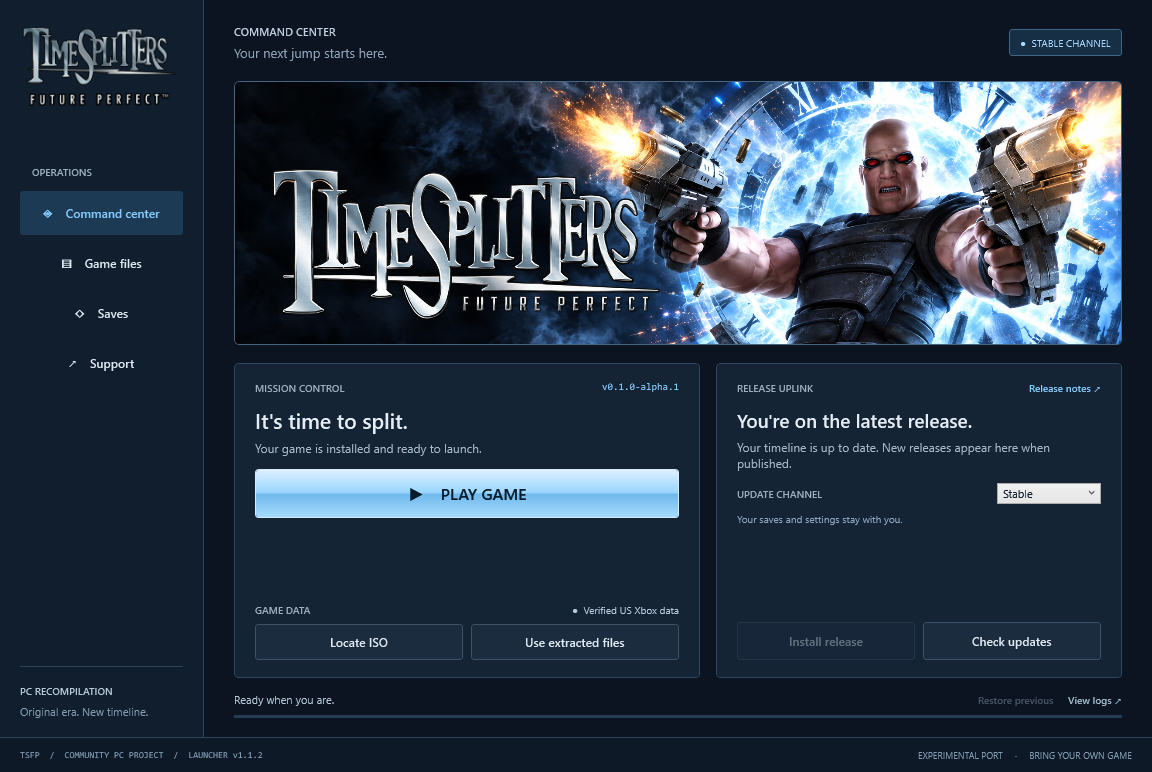
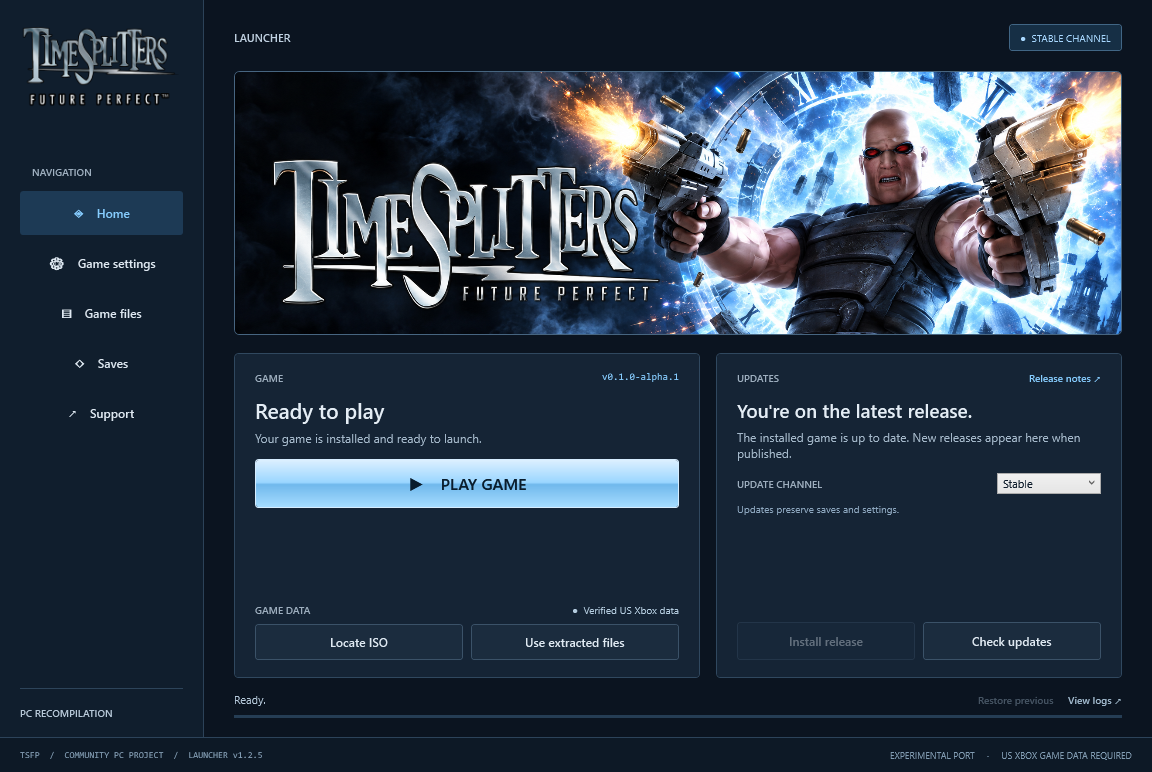
Remove slogans and quips from README and launcher

diff --git a/tools/launcher/Launcher.xaml b/tools/launcher/Launcher.xaml
@@ -61,8 +61,8 @@
           </StackPanel>
         </StackPanel>
         <StackPanel Grid.Row="2">
-          <TextBlock Text="OPERATIONS" Style="{StaticResource Label}" Margin="12,0,0,10"/>
-          <Button x:Name="HomeNav" Style="{StaticResource Nav}" Background="#1D3A55" Foreground="#86CDFF" Content="◈    Command center" ToolTip="Game, release updates and setup"/>
+          <TextBlock Text="NAVIGATION" Style="{StaticResource Label}" Margin="12,0,0,10"/>
+          <Button x:Name="HomeNav" Style="{StaticResource Nav}" Background="#1D3A55" Foreground="#86CDFF" Content="◈    Home" ToolTip="Game, release updates and setup"/>
           <Button x:Name="SettingsNav" Style="{StaticResource Nav}" Content="⚙    Game settings" ToolTip="Keybinds, mouse, graphics and resolution"/>
           <Button x:Name="FilesNav" Style="{StaticResource Nav}" Content="▤    Game files" ToolTip="Open the installation folder"/>
           <Button x:Name="SavesNav" Style="{StaticResource Nav}" Content="◇    Saves" ToolTip="Open your local saves folder"/>
@@ -72,7 +72,6 @@
           <Border BorderBrush="#2D445A" BorderThickness="0,1,0,0" Padding="0,17,0,0">
             <StackPanel>
               <TextBlock Text="PC RECOMPILATION" FontSize="10" FontWeight="SemiBold" Foreground="#B7C8D8"/>
-              <TextBlock Text="Original era. New timeline." FontSize="11" Foreground="#849AAF" Margin="0,7,0,0"/>
             </StackPanel>
           </Border>
         </StackPanel>
@@ -82,7 +81,7 @@
     <Grid x:Name="CommandCenter" Margin="30,24,30,18">
       <Grid.RowDefinitions><RowDefinition Height="Auto"/><RowDefinition Height="20"/><RowDefinition Height="264"/><RowDefinition Height="18"/><RowDefinition Height="*"/><RowDefinition Height="Auto"/></Grid.RowDefinitions>
       <DockPanel LastChildFill="False">
-        <StackPanel DockPanel.Dock="Left"><TextBlock Text="COMMAND CENTER" FontSize="11" FontWeight="SemiBold" Foreground="#C0D1E1"/><TextBlock Text="Your next jump starts here." FontSize="13" Foreground="#8CA2B7" Margin="0,5,0,0"/></StackPanel>
+        <TextBlock DockPanel.Dock="Left" Text="LAUNCHER" FontSize="11" FontWeight="SemiBold" Foreground="#C0D1E1" VerticalAlignment="Center"/>
         <Border DockPanel.Dock="Right" BorderBrush="#416685" BorderThickness="1" Background="#162F45" Padding="10,6" CornerRadius="3" VerticalAlignment="Center">
           <TextBlock x:Name="ChannelBadge" Text="●  STABLE CHANNEL" FontSize="10" Foreground="#A8D8FF"/>
         </Border>
@@ -103,15 +102,12 @@
             </Ellipse>
             <Path Stroke="#86CDFF" StrokeThickness="1.5" Data="M271,22 L271,69 M271,177 L271,224 M170,123 L217,123 M325,123 L372,123 M253,123 L289,123 M271,105 L271,141"/>
             <Path Fill="#132A3D" Stroke="#B5CADB" StrokeThickness="1" Data="M243,124 L255,93 L254,74 L262,61 L276,60 L287,71 L284,94 L300,105 L304,127 L322,146 L315,154 L289,137 L290,178 L302,221 L282,224 L267,185 L260,223 L240,221 L247,174 L246,143 L220,154 L214,145 Z"/>
-            <TextBlock Canvas.Left="22" Canvas.Top="222" Text="TEMPORAL SIGNATURE  //  2005" FontFamily="Consolas" FontSize="9" Foreground="#98B7D0"/>
           </Canvas>
           <StackPanel Margin="28,25,0,20" Width="435" HorizontalAlignment="Left">
-            <TextBlock Text="THE FUTURE IS IN YOUR HANDS" FontSize="10" FontWeight="SemiBold" Foreground="#B7DFFF"/>
             <TextBlock Text="TIMESPLITTERS" FontFamily="Bahnschrift" FontWeight="Bold" FontStyle="Italic" FontSize="43" Margin="-3,10,0,0">
               <TextBlock.Foreground><LinearGradientBrush StartPoint="0,0" EndPoint="0,1"><GradientStop Color="#F0F8FF"/><GradientStop Color="#C5D4E1" Offset="0.48"/><GradientStop Color="#7F97AE" Offset="0.52"/><GradientStop Color="#E1EBF4" Offset="1"/></LinearGradientBrush></TextBlock.Foreground>
             </TextBlock>
             <TextBlock Text="F U T U R E   P E R F E C T" FontFamily="Bahnschrift" FontWeight="Bold" FontSize="20" Foreground="#86CDFF" Margin="0,-1,0,0"/>
-            <TextBlock Text="Back through time. Ready for PC." FontSize="13" Foreground="#B0C2D2" Margin="0,17,0,0"/>
             <StackPanel Orientation="Horizontal" Margin="0,19,0,0">
               <Border BorderBrush="#46637D" BorderThickness="1" Padding="8,4" CornerRadius="2"><TextBlock Text="WINDOWS x64" FontSize="9" Foreground="#CAD9E6"/></Border>
               <Border BorderBrush="#46637D" BorderThickness="1" Padding="8,4" CornerRadius="2" Margin="7,0,0,0"><TextBlock Text="NATIVE PC PORT" FontSize="9" Foreground="#CAD9E6"/></Border>
@@ -127,8 +123,8 @@
         <Border Background="#152435" BorderBrush="#30485F" BorderThickness="1" CornerRadius="4" Padding="20,17">
           <Grid>
             <Grid.RowDefinitions><RowDefinition Height="Auto"/><RowDefinition Height="Auto"/><RowDefinition Height="Auto"/><RowDefinition Height="Auto"/><RowDefinition Height="*"/><RowDefinition Height="Auto"/></Grid.RowDefinitions>
-            <DockPanel><TextBlock Text="MISSION CONTROL" Style="{StaticResource Label}"/><TextBlock x:Name="InstalledLabel" Text="NOT INSTALLED" Foreground="#86CDFF" FontFamily="Consolas" FontSize="10" HorizontalAlignment="Right"/></DockPanel>
-            <TextBlock x:Name="ReadyTitle" Grid.Row="1" Text="Prepare your next jump" FontSize="21" FontWeight="SemiBold" Margin="0,12,0,0"/>
+            <DockPanel><TextBlock Text="GAME" Style="{StaticResource Label}"/><TextBlock x:Name="InstalledLabel" Text="NOT INSTALLED" Foreground="#86CDFF" FontFamily="Consolas" FontSize="10" HorizontalAlignment="Right"/></DockPanel>
+            <TextBlock x:Name="ReadyTitle" Grid.Row="1" Text="Install game" FontSize="21" FontWeight="SemiBold" Margin="0,12,0,0"/>
             <TextBlock x:Name="ReadyDescription" Grid.Row="2" Text="Install a release, then import your US Xbox ISO." Foreground="#A4B8CA" FontSize="12" Margin="0,6,0,13"/>
             <Button x:Name="PlayButton" Grid.Row="3" Background="{StaticResource PlayChrome}" Foreground="#091C2C" BorderBrush="#D6EDFF" FontSize="16" Padding="20,13" Content="▶    PLAY GAME" ToolTip="Launch your installed game" IsEnabled="False"/>
             <StackPanel Grid.Row="5" Margin="0,13,0,0">
@@ -143,14 +139,14 @@
         <Border Grid.Column="2" Background="#152435" BorderBrush="#30485F" BorderThickness="1" CornerRadius="4" Padding="20,17">
           <Grid>
             <Grid.RowDefinitions><RowDefinition Height="Auto"/><RowDefinition Height="Auto"/><RowDefinition Height="Auto"/><RowDefinition Height="*"/><RowDefinition Height="Auto"/></Grid.RowDefinitions>
-            <DockPanel><TextBlock Text="RELEASE UPLINK" Style="{StaticResource Label}"/><Button x:Name="ReleaseNotesButton" Content="Release notes ↗" Padding="0" Background="Transparent" BorderThickness="0" Foreground="#86CDFF" FontSize="10" HorizontalAlignment="Right"/></DockPanel>
-            <TextBlock x:Name="ReleaseTitle" Grid.Row="1" Text="Checking the timeline…" FontSize="19" FontWeight="SemiBold" Margin="0,13,0,0"/>
-            <TextBlock x:Name="ReleaseDescription" Grid.Row="2" Text="Published releases, delivered straight from GitHub." FontSize="12" Foreground="#A4B8CA" Margin="0,7,0,12"/>
+            <DockPanel><TextBlock Text="UPDATES" Style="{StaticResource Label}"/><Button x:Name="ReleaseNotesButton" Content="Release notes ↗" Padding="0" Background="Transparent" BorderThickness="0" Foreground="#86CDFF" FontSize="10" HorizontalAlignment="Right"/></DockPanel>
+            <TextBlock x:Name="ReleaseTitle" Grid.Row="1" Text="Checking for updates…" FontSize="19" FontWeight="SemiBold" Margin="0,13,0,0"/>
+            <TextBlock x:Name="ReleaseDescription" Grid.Row="2" Text="Game releases from GitHub." FontSize="12" Foreground="#A4B8CA" Margin="0,7,0,12"/>
             <StackPanel Grid.Row="3">
               <DockPanel Margin="0,0,0,8"><TextBlock Text="UPDATE CHANNEL" Style="{StaticResource Label}" VerticalAlignment="Center"/>
                 <ComboBox x:Name="ChannelPicker" SelectedIndex="0" Width="104" HorizontalAlignment="Right" FontSize="11" Foreground="#101E2D" ToolTip="Stable excludes prereleases. Preview includes published test releases."><ComboBoxItem Content="Stable"/><ComboBoxItem Content="Preview"/></ComboBox>
               </DockPanel>
-              <TextBlock Text="Your saves and settings stay with you." Foreground="#8CA6BE" FontSize="10"/>
+              <TextBlock Text="Updates preserve saves and settings." Foreground="#8CA6BE" FontSize="10"/>
             </StackPanel>
             <Grid Grid.Row="4" Margin="0,12,0,0"><Grid.ColumnDefinitions><ColumnDefinition/><ColumnDefinition Width="8"/><ColumnDefinition/></Grid.ColumnDefinitions>
               <Button x:Name="UpdateButton" Content="Install release" IsEnabled="False" Padding="8,10"/>
@@ -162,7 +158,7 @@
       <Grid Grid.Row="5" Margin="0,14,0,0">
         <Grid.RowDefinitions><RowDefinition Height="Auto"/><RowDefinition Height="5"/></Grid.RowDefinitions>
         <Grid Margin="0,0,0,7"><Grid.ColumnDefinitions><ColumnDefinition Width="*"/><ColumnDefinition Width="Auto"/></Grid.ColumnDefinitions>
-          <TextBlock x:Name="StatusText" Text="Establishing release uplink…" FontSize="11" Foreground="#B4C7D8" VerticalAlignment="Center"/>
+          <TextBlock x:Name="StatusText" Text="Checking for updates…" FontSize="11" Foreground="#B4C7D8" VerticalAlignment="Center"/>
           <StackPanel Grid.Column="1" Orientation="Horizontal" Margin="12,0,0,0">
             <Button x:Name="RollbackButton" Content="Restore previous" FontSize="10" Foreground="#A5BDD1" Padding="0" BorderThickness="0" Background="Transparent" IsEnabled="False"
                     ToolTip="Kept until this game version opens and exits normally. Older game files are then cleaned automatically." ToolTipService.ShowOnDisabled="True"/>
@@ -175,7 +171,7 @@
     <ContentControl x:Name="SettingsHost" Visibility="Collapsed" HorizontalContentAlignment="Stretch" VerticalContentAlignment="Stretch"/>
     </Grid>
     <Border Grid.Row="1" Grid.ColumnSpan="2" BorderBrush="#2C435A" BorderThickness="0,1,0,0" Background="#0D1926" Padding="20,0">
-      <DockPanel><TextBlock x:Name="LauncherVersionLabel" Text="TSFP  /  COMMUNITY PC PROJECT" FontFamily="Consolas" FontSize="9" Foreground="#809BB2" VerticalAlignment="Center"/><TextBlock Text="EXPERIMENTAL PORT     ·     BRING YOUR OWN GAME" FontSize="9" Foreground="#809BB2" HorizontalAlignment="Right" VerticalAlignment="Center"/></DockPanel>
+      <DockPanel><TextBlock x:Name="LauncherVersionLabel" Text="TSFP  /  COMMUNITY PC PROJECT" FontFamily="Consolas" FontSize="9" Foreground="#809BB2" VerticalAlignment="Center"/><TextBlock Text="EXPERIMENTAL PORT     ·     US XBOX GAME DATA REQUIRED" FontSize="9" Foreground="#809BB2" HorizontalAlignment="Right" VerticalAlignment="Center"/></DockPanel>
     </Border>
   </Grid>
 </Window>

diff --git a/tools/launcher/Launcher.cs b/tools/launcher/Launcher.cs
@@ -176,12 +176,12 @@ namespace TimeSplitters.Launcher
             if (previewMode)
             {
                 Text("InstalledLabel", "v0.1.0-alpha.1");
-                Text("ReadyTitle", "It's time to split.");
+                Text("ReadyTitle", "Ready to play");
                 Text("ReadyDescription", "Your game is installed and ready to launch.");
                 Text("DataLabel", "●  Verified US Xbox data");
                 Text("ReleaseTitle", "You're on the latest release.");
-                Text("ReleaseDescription", "Your timeline is up to date. New releases appear here when published.");
-                SetStatus("Ready when you are.");
+                Text("ReleaseDescription", "The installed game is up to date. New releases appear here when published.");
+                SetStatus("Ready.");
                 Button("PlayButton").IsEnabled = true;
                 return;
             }
@@ -234,7 +234,7 @@ namespace TimeSplitters.Launcher
             try {
                 if(settings==null) {
                     settings=new SettingsPage(Window.Resources,root,previewMode);
-                    settings.Saved+=()=> { SetStatus("Settings saved. Ready for your next launch."); Refresh(); };
+                    settings.Saved+=()=> { SetStatus("Settings saved."); Refresh(); };
                     settings.Cancelled+=()=> { ShowHome(); Find<ContentControl>("SettingsHost").Content=null; settings=null; SetStatus("Unsaved settings discarded."); };
                     Find<ContentControl>("SettingsHost").Content=settings.View;
                 }
@@ -283,7 +283,7 @@ namespace TimeSplitters.Launcher
             string xbe = Core.PathIn(root, "Data/default.xbe");
             validData = File.Exists(xbe) && Directory.Exists(Core.PathIn(root, "Data/pak")) && Directory.Exists(Core.PathIn(root, "Data/xmv")) && Core.Hash(xbe) == TsfpImport.ExpectedHash;
             Text("InstalledLabel", installed.Length > 0 ? installed : gameInstalled ? "UNVERSIONED" : "NOT INSTALLED");
-            Text("ReadyTitle", gameInstalled && validData ? "It's time to split." : gameInstalled ? "One last jump: your ISO." : "Prepare your next jump");
+            Text("ReadyTitle", gameInstalled && validData ? "Ready to play" : gameInstalled ? "Import game data" : "Install game");
             Text("ReadyDescription", gameInstalled && validData ? "Your game is installed and ready to launch." : gameInstalled ? "Import your US Xbox game once to start playing." : "Install a release, then import your US Xbox ISO.");
             bool dataExists = Directory.Exists(Core.PathIn(root, "Data"));
             if (dataExists && !validData)
@@ -314,7 +314,7 @@ namespace TimeSplitters.Launcher
             if (busy || checking) return;
             checking = true; available = null;
             Refresh();
-            Text("ReleaseTitle", "Checking the timeline…");
+            Text("ReleaseTitle", "Checking for updates…");
             Text("ReleaseDescription", "Looking for published " + (PreviewChannel ? "preview or stable" : "stable") + " releases on GitHub.");
             SetStatus("Checking GitHub Releases…");
             using (var timeout = CancellationTokenSource.CreateLinkedTokenSource(lifetime.Token))
@@ -333,12 +333,12 @@ namespace TimeSplitters.Launcher
                     {
                         bool newer = CanUpdate();
                         Text("ReleaseTitle", newer ? available.Tag + " is ready." : "You're on the latest release.");
-                        Text("ReleaseDescription", newer ? "Published on GitHub · " + (available.Size / 1048576.0).ToString("0.0") + " MB\n" + (gameInstalled ? "Ready to update when you are." : "Install the game files, then bring your ISO.") : "Your timeline is up to date. Check release notes for details.");
-                        SetStatus(newer ? "Release available. Select " + (gameInstalled ? "Update" : "Install") + " to download and verify." : "Ready when you are.");
+                        Text("ReleaseDescription", newer ? "Published on GitHub · " + (available.Size / 1048576.0).ToString("0.0") + " MB\n" + (gameInstalled ? "Update available." : "Install the game runtime, then import your game data.") : "The installed game is up to date. Check release notes for details.");
+                        SetStatus(newer ? "Release available. Select " + (gameInstalled ? "Update" : "Install") + " to download and verify." : "Ready.");
                     }
                 }
                 catch (OperationCanceledException) { if (!lifetime.IsCancellationRequested) { Text("ReleaseTitle", "Release check timed out."); Text("ReleaseDescription", "Your installed game is available offline. Check again when connected."); SetStatus("GitHub did not respond in time. You can retry the release check."); } }
-                catch (Exception ex) { Text("ReleaseTitle", "Release uplink unavailable."); Text("ReleaseDescription", "Your installed game is available offline. Try checking again later."); Fail(ex); }
+                catch (Exception ex) { Text("ReleaseTitle", "Update check failed."); Text("ReleaseDescription", "Your installed game is available offline. Try checking again later."); Fail(ex); }
             }
             checking = false; Refresh();
         }
@@ -448,7 +448,7 @@ namespace TimeSplitters.Launcher
                     {
                         Window.WindowState = WindowState.Minimized;
                         minimizedForGame = true;
-                        SetStatus("Game running. Have a good jump.");
+                        SetStatus("Game running.");
                     }
                     await Task.Delay(200);
                 }
@@ -486,7 +486,7 @@ namespace TimeSplitters.Launcher
                             var stderr = process.StandardError.BaseStream.CopyToAsync(errors);
                             await MonitorGame(process); await Task.WhenAll(stdout, stderr);
                         }
-                        SetStatus(process.ExitCode == 0 ? "Welcome back. Ready for another jump?" : "Game launch failed. View logs for details.");
+                        SetStatus(process.ExitCode == 0 ? "Game closed." : "Game launch failed. View logs for details.");
                         return;
                     }
                     process.StartInfo = new ProcessStartInfo(shell, "-NoProfile -STA -ExecutionPolicy Bypass -File " + Quote(Core.PathIn(root, "Launch.ps1"))) {
@@ -500,7 +500,7 @@ namespace TimeSplitters.Launcher
                     process.ErrorDataReceived += (s, e) => { if (e.Data != null) Program.Log(root, e.Data); };
                     process.Start(); process.BeginOutputReadLine(); process.BeginErrorReadLine();
                     await MonitorGame(process);
-                    SetStatus(process.ExitCode == 0 ? "Welcome back. Ready for another jump?" : "Game launch failed. View logs for details.");
+                    SetStatus(process.ExitCode == 0 ? "Game closed." : "Game launch failed. View logs for details.");
                 }
             }
             catch (Exception ex) { Fail(ex); }

diff --git a/tools/launcher/SettingsPage.cs b/tools/launcher/SettingsPage.cs
@@ -132,7 +132,7 @@ namespace TimeSplitters.Launcher
             heading.Children.Add(Text("Game settings",25));
             var subtitle=Text("Set controls and graphics before starting the game. Changes apply on your next launch.",12); subtitle.Foreground=Muted; heading.Children.Add(subtitle);
             var footer=new StackPanel(); DockPanel.SetDock(footer,Dock.Bottom); layout.Children.Add(footer);
-            status=Text("Save to apply on your next launch. Command center keeps your draft; Cancel discards unsaved edits.",12); status.Foreground=Muted; footer.Children.Add(status);
+            status=Text("Save to apply on your next launch. Home keeps your draft; Cancel discards unsaved edits.",12); status.Foreground=Muted; footer.Children.Add(status);
             var actions=new StackPanel { Orientation=Orientation.Horizontal, HorizontalAlignment=HorizontalAlignment.Right };
             var cancel=Button("Cancel"); cancel.Name="SettingsCancelButton"; cancel.Click+=(s,e)=> { if(Cancelled!=null)Cancelled(); }; actions.Children.Add(cancel);
             var save=Button("Save settings"); save.Name="SettingsSaveButton"; save.Background=Accent; save.Foreground=new SolidColorBrush(Color.FromRgb(9,28,44)); save.Click+=(s,e)=>Save(); actions.Children.Add(save); footer.Children.Add(actions);

diff --git a/tools/launcher/Bootstrap.cs b/tools/launcher/Bootstrap.cs
@@ -142,7 +142,7 @@ namespace TimeSplitters.Launcher
                   <Grid.RowDefinitions><RowDefinition Height='Auto'/><RowDefinition Height='Auto'/><RowDefinition Height='Auto'/><RowDefinition Height='Auto'/><RowDefinition Height='*'/></Grid.RowDefinitions>
                   <TextBlock Text='TIMESPLITTERS  /  FUTURE PERFECT' FontFamily='Bahnschrift' FontWeight='Bold' FontSize='14' Foreground='#86CDFF'/>
                   <TextBlock Grid.Row='1' Text='Checking launcher updates…' FontSize='21' FontWeight='SemiBold' Margin='0,18,0,0'/>
-                  <TextBlock x:Name='Status' Grid.Row='2' Text='Getting everything ready.' FontSize='12' Foreground='#A4B8CA' TextWrapping='Wrap' Margin='0,7,0,15'/>
+                  <TextBlock x:Name='Status' Grid.Row='2' Text='Checking GitHub Releases.' FontSize='12' Foreground='#A4B8CA' TextWrapping='Wrap' Margin='0,7,0,15'/>
                   <ProgressBar x:Name='Progress' Grid.Row='3' Height='3' IsIndeterminate='True' Background='#30485F' Foreground='#86CDFF' BorderThickness='0'/>
                   <DockPanel Grid.Row='4' Margin='0,15,0,0' LastChildFill='False'>
                     <TextBlock x:Name='Version' DockPanel.Dock='Left' Foreground='#8CA6BE' FontSize='10' VerticalAlignment='Center'/>

diff --git a/README.md b/README.md
@@ -2,21 +2,19 @@
 
 # TimeSplitters: Future Perfect
 
-### The Xbox classic. A new home on PC.
-
 Direct mouse aiming · 4K & ultrawide · Custom controls · Online & LAN
 
 <a href="https://github.com/TheDoffman/timesplitters-future-perfect-pc/releases/latest"><img src="docs/assets/download-launcher.svg" alt="Download the latest Windows launcher" width="280" height="52"></a>
 
 **[Quick start](#start-playing)** · [Launcher guide](docs/launcher.md) · [Multiplayer](docs/multiplayer.md) · [Build from source](docs/building.md)
 
-<sub>Windows 10/11 x64 · Experimental PC port · Bring your own US Xbox game</sub>
+<sub>Windows 10/11 x64 · Experimental PC port · Supported US Xbox game required</sub>
 
 </div>
 
 ![TimeSplitters launcher with Play Game, game import, update channel and release controls](docs/assets/launcher-preview.png)
 
-<p align="center"><sub>Published launcher v1.1.2 interface preview. Version and channel shown are sample state; choose <strong>Preview</strong> to install current game prereleases.</sub></p>
+<p align="center"><sub>Launcher interface preview from the current source. Version and channel shown are sample state; choose <strong>Preview</strong> to install current game prereleases.</sub></p>
 
 > [!IMPORTANT]
 > You need your own supported **US Xbox ISO or extracted game data**. Import it
@@ -25,7 +23,7 @@ Direct mouse aiming · 4K & ultrawide · Custom controls · Online & LAN
 
 ## Start playing
 
-| | Get ready for your next jump |
+| Step | Installation |
 | :---: | --- |
 | **01** | **Download the launcher.** Open the [latest launcher release](https://github.com/TheDoffman/timesplitters-future-perfect-pc/releases/latest) and download its `TimeSplitters-Launcher-…-windows-x64.zip` asset. |
 | **02** | **Extract and open.** Extract the whole ZIP to a writable folder, keeping `Bin` and `Support` together. Open **TimeSplitters Launcher.exe**. |
@@ -53,20 +51,20 @@ Python, Git and Visual Studio are not required to play.
 
 </details>
 
-## Built for PC play
+## PC features
 
 <table>
 <tr>
-<td width="50%" valign="top"><strong>Precise mouse aiming</strong><br>Direct camera control, zoom-aware sensitivity and normalized WASD movement. Rebind actions and adjust sensitivity with <strong>F2</strong>.</td>
-<td width="50%" valign="top"><strong>A bigger view</strong><br>Native <strong>1080p, 1440p and 4K</strong> rendering, monitor-reported ultrawide modes and adaptive in-engine cutscene framing.</td>
+<td width="50%" valign="top"><strong>Mouse aiming</strong><br>Direct camera control, zoom-aware sensitivity and normalized WASD movement. Rebind actions and adjust sensitivity with <strong>F2</strong>.</td>
+<td width="50%" valign="top"><strong>Resolution and aspect ratio</strong><br>Native <strong>1080p, 1440p and 4K</strong> rendering, monitor-reported ultrawide modes and adaptive in-engine cutscene framing.</td>
 </tr>
 <tr>
-<td valign="top"><strong>Your controls, on screen</strong><br>Formatted menu and HUD prompts follow your bindings and switch back to controller icons when you use a controller.</td>
-<td valign="top"><strong>Jump in with friends</strong><br>Experimental player-hosted Online matches, invitations, private join codes and compatible-build browsing, plus LAN System Link.</td>
+<td valign="top"><strong>Input prompts</strong><br>Formatted menu and HUD prompts follow your bindings and switch back to controller icons when you use a controller.</td>
+<td valign="top"><strong>Online and LAN multiplayer</strong><br>Experimental player-hosted Online matches, invitations, private join codes and compatible-build browsing, plus LAN System Link.</td>
 </tr>
 <tr>
-<td valign="top"><strong>One place to launch and update</strong><br>Install releases, import game data, check updates and press <strong>Play Game</strong>. Roll back an update when a previous release is available.</td>
-<td valign="top"><strong>See how it runs</strong><br>Optional FPS, frame-time and network-latency displays. Use <strong>F9</strong> for the FPS overlay and <strong>F12</strong> for debug settings.</td>
+<td valign="top"><strong>Launcher</strong><br>Install releases, import game data, check updates and press <strong>Play Game</strong>. Roll back an update when a previous release is available.</td>
+<td valign="top"><strong>Performance diagnostics</strong><br>Optional FPS, frame-time and network-latency displays. Use <strong>F9</strong> for the FPS overlay and <strong>F12</strong> for debug settings.</td>
 </tr>
 </table>
 
@@ -74,7 +72,7 @@ Recent fixes improve pickup-range checks, controller sensitivity adjustment,
 story audio transitions, Khallos Express scenery rendering and multiplayer
 movement updates. [See measured progress →](STATUS.md)
 
-### Make it yours
+### Controls and settings
 
 **Game settings** in launcher v1.2.0 lets you set keybinds and graphics before
 playing. Resolution selectors use your primary display's reported modes, include
@@ -82,7 +80,7 @@ the console default, and provide left/right arrows. Saved custom modes are retai
 
 | Controls | Display | Launcher |
 | --- | --- | --- |
-| **F2** opens keyboard/mouse settings. Save bindings, sensitivity and inversion. Pause before editing. | **Settings → Display settings** (or paused **Options**) selects aspect-ratio groups, resolution and vertical FOV (40–100°, default 55°). Confirm resolution changes within **15 seconds** or it reverts. | **Check updates → Update release** installs game updates. **Saves**, **Game files**, **View logs** and **Support** keep essentials close. |
+| **F2** opens keyboard/mouse settings. Save bindings, sensitivity and inversion. Pause before editing. | **Settings → Display settings** (or paused **Options**) selects aspect-ratio groups, resolution and vertical FOV (40–100°, default 55°). Confirm resolution changes within **15 seconds** or it reverts. | **Check updates → Update release** installs game updates. **Saves**, **Game files**, **View logs** and **Support** open the related folders, logs and issue tracker. |
 
 Click the game to capture the mouse; **Escape** pauses and releases it. Use
 **Alt+Enter** for fullscreen. Settings saved in-game remain in place for your
@@ -114,7 +112,7 @@ original appearance. [Full controls and display guide →](docs/windows-settings
 
 </details>
 
-## Play with friends
+## Multiplayer
 
 **Online / System Link → Online** opens the experimental competitive mode.
 Host a match, share an invitation, or browse compatible public lobbies. No Steam
@@ -146,7 +144,7 @@ account, paid service or centrally operated server is required. Choose
 
 ## Guides & support
 
-| Play & customize | Build & contribute |
+| Player guides | Developer guides |
 | --- | --- |
 | [Windows launcher](docs/launcher.md) — installation, updates and recovery | [Build guide](docs/building.md) — prerequisites, setup and patch workflow |
 | [Controls & display](docs/windows-settings.md) — bindings, resolution and diagnostics | [Release publishing](docs/releasing.md) — package, validate and publish |

diff --git a/docs/assets/README.md b/docs/assets/README.md
@@ -1,16 +1,18 @@
 # README visuals
 
-- `launcher-preview.png`: UI preview rendered by the published Windows launcher
-  v1.1.2 using its `--render-preview` command. It shows illustrative installed
-  version/channel values, not the current latest game release or a gameplay test.
-  The README caption makes that distinction and directs players to Preview.
+- `launcher-preview.png`: UI preview rendered from `cleanup/readme-launcher-copy`
+  using the launcher's `--render-preview` command after removing slogans and
+  themed status quips. This is a source/development preview, not a published
+  launcher screenshot. Its installed version/channel values are illustrative;
+  the README caption directs players to Preview for published game prereleases.
 - Rendered application SHA-256:
[1 lines of base64/hex data omitted]
-  This matches the v1.1.2 launcher package manifest. Rendering opens no game,
-  performs no update and includes no personal settings, paths or saves.
-- `download-launcher.svg`: small self-contained download button matching the
[1 lines of base64/hex data omitted]
+  The launcher was built on Windows x64 with the existing private banner/logo
+  resources. Rendering opens no game, performs no update, and includes no
+  personal settings, paths or saves. Screenshot resolution: 1152 x 772.
+- `download-launcher.svg`: self-contained download button matching the
   launcher's silver/blue palette. Its link and accessible label are in the README.
 
-The PNG documents the released interface, including its embedded branding.
-Raw source artwork and original game assets remain private. Keep one launcher
-preview here and replace it when the documented interface changes.
+The PNG documents the interface, including its embedded branding. Raw source
+artwork and original game assets remain private. Keep one launcher preview here
+and replace it when the documented interface changes.

diff --git a/STATUS.md b/STATUS.md
@@ -1,5 +1,27 @@
 # Measured progress
 
+## README and launcher copy cleanup (2026-10-16)
+
+Copy-only work on `cleanup/readme-launcher-copy`, based on main `2608580`.
+Removed slogans, game-themed quips and promotional headings from the README,
+launcher home screen, default banner, startup splash and runtime status messages.
+Visible navigation now uses Home, Game and Updates; stable element IDs and event
+handlers remain unchanged. The settings draft hint and launcher guide use Home.
+The README screenshot was replaced with the actual updated development UI, with
+its source-preview status and executable hash recorded in docs/assets/README.md.
+Game branding, artwork, functional instructions and prerequisite notices remain.
+
+Windows x64 / .NET Framework 4.8 / Python 3.12.14: both themed launcher EXEs
+compiled. Main, keyboard/mouse settings, graphics settings and startup-splash
+preview commands succeeded. A separate build without private banner/logo assets
+compiled and its fallback preview rendered successfully. Main and fallback
+previews were visually inspected. A source scan found no remaining removed
+phrases; the README reference to the game having no jump action is functional
+controls documentation and remains. No new tests were added for these text-only
+edits; no game build, game execution, update or personal settings changes were
+performed. Native Mac UI wording is unverified. Publication is not part of this
+change.
+
 ## Resolution groups and adaptive UI (issues #27/#31) — 2026-10-16
 
 Implemented on `27-add-aspect-ratio-169-and-more-resolutions`, originally based on main

diff --git a/MAC_PORT_BACKLOG.md b/MAC_PORT_BACKLOG.md
@@ -534,6 +534,15 @@ Copy this template into the queue for each new entry. Replace all placeholders.
 ### MAC-021 — Published-release launcher and pre-game settings
 
 - **Status:** Queued
+- **Neutral interface copy (2026-10-16, uncommitted on
+  `cleanup/readme-launcher-copy`):** README and Windows launcher slogans/quips
+  are removed. `Launcher.xaml`, `Launcher.cs`, `Bootstrap.cs` and `SettingsPage.cs`
+  use functional labels/status messages, including Home/Game/Updates. The README
+  screenshot and launcher usage guide match the labels. No shared game logic or
+  native Mac adapter changed, so no Mac runtime adaptation is needed for this
+  copy-only edit. The future Mac release launcher should use the same neutral
+  wording; existing native Mac UI copy is not audited or verified here. Evidence:
+  [Windows copy validation](STATUS.md#readme-and-launcher-copy-cleanup-2026-10-16).
 - **Game version cleanup (2026-10-16, commit `d1f4e42` on
   `fix/game-update-cleanup`, [PR #69](https://github.com/TheDoffman/timesplitters-future-perfect-pc/pull/69),
   prepared for launcher v1.2.5):** `tools/launcher/Core.cs` removes retired game

diff --git a/docs/windows-launcher.md b/docs/windows-launcher.md
@@ -186,11 +186,11 @@ Restore default controls affects Player 1 only and does not write until Save.
 
 Launcher v1.2.2 opens both tabs inside the main launcher, with the sidebar
 visible and usable. Binding capture, conflict reassignment and restore-defaults
-confirmations also appear inside that page. **Command center** retains your draft
+confirmations also appear inside that page. **Home** retains your draft
 and dismisses any active binding prompt; reopening **Game settings** restores the
 same tab and edits. **Save settings** keeps the page open and reports validation
 or save results in its footer. **Cancel** discards unsaved edits and returns to
-Command center; closing the launcher also discards unsaved edits. Existing
+Home; closing the launcher also discards unsaved edits. Existing
 backup, rollback and external-edit protection are unchanged.
 
 Graphics include output resolution (presets, attached display sizes and custom
